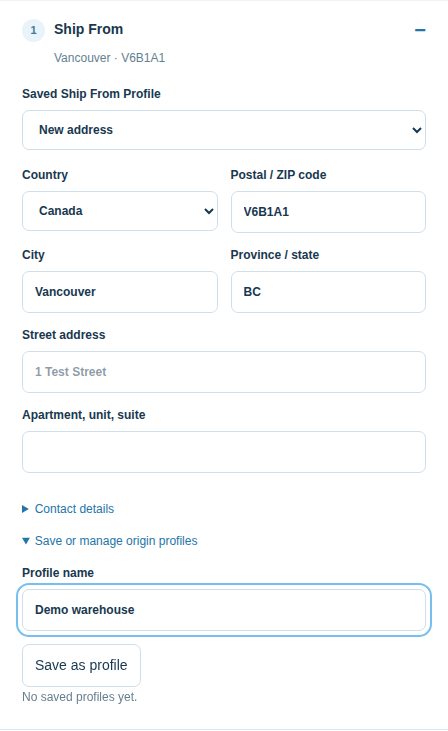
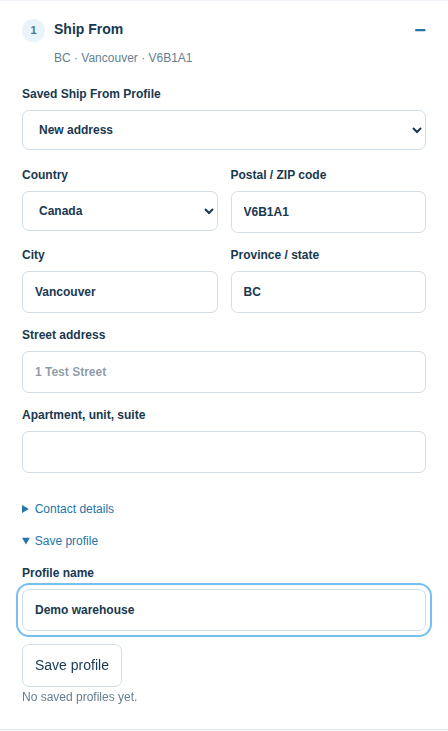
Refresh visual user guide with current workflows and sandbox walkthrough

Changed region(s): [[0.125, 0.0602, 0.4375, 0.0903], [0.1562, 0.7223, 0.4375, 0.7524], [0.1562, 0.9029, 0.2812, 0.933]]

diff --git a/docs/USER_GUIDE.md b/docs/USER_GUIDE.md
@@ -1,70 +1,186 @@
-# Shipping Rate Calculator user guide
+# Shipping Rate Calculator · Product walkthrough
 
-Use the calculator to compare Canada Post, Loomis Express and FedEx services for your shipment. Sign in, configure your carrier accounts, enter the shipment and compare the returned rates.
+A shared shipping workspace for comparing carrier services, revisiting past quotes, and verifying sandbox labels. Company connections, account permissions, and carrier environments are managed separately so daily users can focus on preparing shipments.
 
-The screenshots and animation below use a fictional account, example addresses and **mock rates**. These prices are samples, not live carrier quotes. Sandbox is for testing; production uses your separately saved production carrier settings.
+**Start here:** sign in → enter a shipment → compare services → share or revisit the comparison.
 
-## Animated rate walkthrough
+> **Demo data:** Every screenshot and animation in this guide uses an isolated Sandbox environment, fictional accounts and addresses, and synthetic rates. Prices and delivery estimates are illustrative, not carrier commitments. The label list contains a seeded demonstration record; no production waybill is created for this guide.
 
-![Eight steps showing address entry, parcel measurements, optional coverage and rate comparison](images/user-guide/rate-walkthrough.gif)
+## Watch the workflow
 
-## Sign in and choose your area
+The animation walks through address entry, package measurements, signature and declared value, rate comparison, and sharing controls.
 
-Open the app and sign in with the account provided by your administrator. Production pages use `/login`, `/rate` and `/setting`; sandbox pages use `/sandbox/login`, `/sandbox/rate` and `/sandbox/setting`. If your session expires, sign in again.
+![Animated walkthrough of the current sandbox rate calculator, using fictional shipment details and sample prices](images/user-guide/rate-walkthrough.gif)
 
-![Sandbox sign in](images/user-guide/01-sign-in.png)
+## 1. Sign in and choose an environment
 
-## Set up your carriers
+Use the account created by your administrator. There is no public registration. When signing in after a session expires, the app returns you to the protected page you requested.
 
-Open **Settings** in the area you want to use. Each carrier has its own account settings.
+- **Sandbox / UAT** is the test area. Its pages display a full-width Sandbox banner.
+- **Production** uses separately configured live carrier credentials.
+- The environment switch shows only the areas your account can access. Switching areas does not copy carrier credentials.
 
-1. Enter the carrier API URL and the credentials issued for that environment. Use your carrier account details, not the calculator login.
-2. Select the rate type for Canada Post: counter retail or commercial account, as appropriate for your account.
-3. Enable the carrier and click **Save settings** on its card.
-4. Click **Test connection** after saving. Review the result and correct any configuration errors before quoting.
+![Sandbox sign-in screen with language and theme controls](images/user-guide/01-sign-in.png)
 
-Blank secret fields keep previously saved secrets. **Clear settings** edits the form; click **Save settings** to remove the stored settings. Save each changed card before leaving the page. Sandbox credentials and production credentials are separate.
+| Destination | Production | Sandbox / UAT |
+| --- | --- | --- |
+| Home | `/home` | `/sandbox/home` |
+| Compare rates | `/rate` | `/sandbox/rate` |
+| Saved labels | `/labels` | `/sandbox/labels` |
+| Settings | `/setting` | `/sandbox/setting` |
+| API documentation | `/docs` | `/sandbox/docs` |
 
-![Three carrier settings cards with empty credentials](images/user-guide/02-carrier-settings.png)
+The upper header groups environment selection, language, theme, and sign out. Page navigation sits beneath it, with the current page underlined.
 
-## Enter addresses and save an origin
+## 2. Prepare a shipment
 
-Open **Rates**. Enter the origin and destination city, province and postal code in their respective sections. Add contact and street details when required for your shipment.
+Open **Rates**. Your company’s enabled carriers appear under **Carriers to quote**; select the carriers you want to compare. If the list is empty, ask your administrator to configure and enable a connection.
 
-For an origin you use often, expand **Save or manage origin profiles**, enter a **Profile name**, then click **Save as profile**. Select it from **Saved Ship From Profile** on later shipments. **Set default** makes a saved origin load automatically. Destination details remain independent.
+### Addresses and reusable origins
 
-![Origin address and profile controls](images/user-guide/03-origin-profile.png)
+Enter **Ship From** and **Ship To** independently. Canadian postal-code suggestions automatically populate city and province when available; you can correct either field. The collapsed address summary shows province, city, and postal code. Suggestions do not verify the complete delivery address.
 
-## Enter the package
+Use the map icon beside **Ship To** to open the current destination fields in Google Maps. It does not create a shipment or booking.
 
-Choose **Imperial · lb / in** or **Metric · kg / cm**, then enter weight, length, width and height. Switching units converts the existing measurements. Enter accurate measurements: blank or zero fields use 1 in the selected units when quoting.
+For a recurring origin, open **Save profile**, enter a profile name, and choose **Save profile**. Choose it from **Saved Ship From Profile** on future shipments. **Set default** loads that origin automatically. Origin profiles belong to your account; company carrier connections are shared.
 
-Choose the ship date. Select **Signature required** if needed and enter a **Coverage / declared value (CAD)** amount to compare covered and uncovered rates. Declared value does not guarantee insurance coverage; carrier terms apply.
+![Ship From address fields and reusable origin profile controls](images/user-guide/03-origin-profile.png)
 
-Click **Compare rates** and wait for the carrier responses.
+### Boxes, measurements, and options
 
-![Shipment addresses and package options](images/user-guide/04-shipment.png)
+| Field | Default | How it is used |
+| --- | --- | --- |
+| Boxes | 1 | Number of identical boxes; current multi-box support is limited to Purolator |
+| Weight | 1 lb | Weight of each box; Purolator receives the combined shipment weight |
+| Length, width, height | 0 in | All zero omits dimensions; otherwise enter a positive value for all three |
+| Units | Imperial | Switching to Metric converts the entered measurements |
+| Signature | Selected | Requests signature where supported by the carrier |
+| Declared value | Empty | Enter a CAD amount to compare eligible covered and uncovered rates |
 
-## Compare and share rates
+Boxes and weight share one row; dimensions occupy the next. Use accurate measurements: omitted dimensions may change the final charge. The web form substitutes 1 for blank or zero weight when quoting; the JSON API requires positive weight. Values round upward to two decimal places.
 
-Review the carrier status cards first. A failed carrier may return no services while other carriers still succeed. Correct settings or shipment details and retry as needed.
+Choose the ship date and review signature and declared value before clicking **Compare rates**. Declared value does not guarantee insurance coverage; carrier terms apply. Integrations without multi-box support return unavailable for multiple boxes.
 
-Use the sorting control to order the services and **Include tax** to change the displayed tax setting. Compare delivery estimates, prices without and with coverage, and signature availability. Expand **Quote details** for more information. **Show / hide services** controls which services appear.
+<img src="images/user-guide/04-shipment.png" alt="Shipment form with collapsed address summaries, box count, measurements, and additional options" width="450" />
 
-Click **Copy table** to paste the displayed comparison into a message or document. **Copy API result** copies an individual service's carrier response when available. Changing the shipment clears stale results; click **Compare rates** again.
+## 3. Compare services and share the result
 
-Quotes are estimates. Final charges and coverage terms may differ. The calculator compares rates; it does not purchase shipping labels. Quote results are not saved.
+Review carrier statuses before choosing a service. One carrier can fail while others return usable quotes. No synthetic price is substituted for a failed live API request.
 
-![Sample comparison with carrier statuses, coverage columns and copying controls](images/user-guide/05-rate-comparison.png)
+The comparison shows service names, delivery estimates, signature information, and eligible coverage prices. Use **Sort rates**, **Include tax**, **Quote details**, and **Show / hide services** to focus the comparison.
 
-## Use the calculator on a phone
+![Sample rate comparison with carrier statuses, service prices, delivery estimates, and sharing controls](images/user-guide/05-rate-comparison.png)
 
-Use the same steps on mobile. Package fields stack vertically; scroll down to compare the results.
+| Action | Result |
+| --- | --- |
+| **Copy table** | Copies the visible comparison for pasting into a message or document |
+| **Copy image** | Downloads the complete page as a JPG |
+| **Copy request** | Copies the submitted calculator shipment JSON for the comparison or a service’s carrier |
+| **Copy API result** | Copies the available original per-service response as JSON |
 
-![Mobile shipment and rate comparison](images/user-guide/06-mobile.png)
+Copy feedback appears in a toast. Request copies use the submitted shipment snapshot, so editing the form does not silently change the request being shared. Authentication secrets and headers are excluded.
 
-## Manage accounts as an administrator
+**Editing shipment fields keeps the existing comparison visible.** Click **Compare rates** again to obtain prices for the updated details. Labels can only be generated from shipment details matching the quoted request.
 
-Administrators can open `/admin` or `/sandbox/admin` to create accounts, change roles, reset passwords and grant Web or API access independently. Enable Web access for people using the calculator in a browser. Account changes revoke existing sessions, so affected users must sign in again.
+## 4. Reopen a saved comparison
 
-![Administrator account controls using a fictional account](images/user-guide/07-admin-accounts.png)
+Each valid rate comparison is recorded in your company’s **Rate logs**. Open the dialog from the Rates page and select a record to review its route, package, returned prices, and carrier statuses.
+
+Choose **Load shipping details** to restore the shipment and compare current rates. A past ship date moves to today; disabled carriers and personal profile access are respected. Loading a record does not promise the historical price is still available.
+
+![Rate log dialog showing a saved shipment, carrier results, and the action to reload shipping details](images/user-guide/09-rate-history.png)
+
+You can delete an individual log after confirmation. This removes the saved comparison for the company and leaves shipping labels intact. Rate logs remain with the company when an account is removed or reassigned.
+
+## 5. Generate and revisit a sandbox label
+
+Label generation is **disabled by default**. An administrator must enable it for the company and carrier environment. Current generation supports **Loomis Sandbox only**.
+
+1. Obtain a successful live Loomis sandbox quote using complete shipment details.
+2. Choose **Generate label** on the relevant service and confirm the action.
+3. Only that row shows generation progress. The PNG downloads and is saved to the company’s label history.
+4. Open **Labels**, then select the shipment row or its view link to open the detail page.
+5. Review shipment details, view the label, or download it again.
+
+The Labels table supports 10, 20, 50, or 100 rows per page. Labels appear on their dedicated page rather than below the rate table.
+
+![Generated labels list with a fictional seeded shipment and pagination controls](images/user-guide/10-generated-labels.png)
+
+The record above demonstrates label history navigation only. Its image is a fixture, not a printable carrier waybill. The guide capture blocks waybill creation and production API calls.
+
+## 6. Manage the company workspace
+
+Administrators use **Settings → Company groups** and **Settings → Users and access**. Ordinary users see personal settings and their company membership; they cannot edit carrier credentials or create accounts.
+
+| Setting | Scope |
+| --- | --- |
+| Carrier connections | Shared by the company, separately for each environment |
+| Generation permission | Company and environment; disabled initially |
+| Labels and rate logs | Shared company history |
+| Origin profiles | Personal to the user |
+| Language and theme | Browser preference, shared across the two carrier areas |
+
+<details>
+<summary><strong>Company groups and carrier setup</strong></summary>
+
+Select or create a company, then use its tabs to manage members, connections, and permissions. A user belongs to one company; changing membership revokes that user’s sessions. Existing labels, logs, and credentials stay with the original company.
+
+![Company directory and selected company overview](images/user-guide/08-company-workspace.png)
+
+In **API connections**:
+
+1. Enter the credentials issued for the selected carrier environment.
+2. For Canada Post, choose the appropriate counter/retail or commercial account rate type.
+3. Enable the carrier and choose **Save settings**.
+4. Use **Test connection** to inspect status, response time, and errors. This check requests rates; it does not purchase a label.
+
+Blank secret fields preserve stored secrets. **Clear settings** changes the draft; save to persist it. Unsaved changes trigger a leave-page prompt. Disabled but configured carriers can still be tested.
+
+![Administrator carrier connection cards with synthetic saved credentials](images/user-guide/02-carrier-settings.png)
+
+Purolator fields follow the issued credential order: Client ID, Client Secret, Key, Sender Account, Receiver Account, and Freight Account. Production requires `x-api-key`; UAT can omit it if none was issued, subject to carrier acceptance. Current Courier estimates bill the sender; receiver billing and freight quoting are not implemented.
+
+![Purolator sandbox credential fields and connection actions](images/user-guide/13-purolator-settings.png)
+
+</details>
+
+<details>
+<summary><strong>Users, roles, and access</strong></summary>
+
+Create accounts, assign a company, set a role, reset passwords, and independently grant Web/API and Production/Sandbox access. Enable Web access for browser users. Account access changes revoke existing sessions; affected users sign in again. The last web-enabled administrator is protected.
+
+![User management with fictional accounts, company assignment, and access controls](images/user-guide/07-admin-accounts.png)
+
+</details>
+
+## 7. Use your preferred language, theme, and device
+
+Choose **EN**, **FR**, **繁體中文**, or **简体中文** from the header. Switching language preserves shipment inputs and the current comparison. Carrier responses, service names, addresses, and copied API JSON retain their original values. Date/time region is configured separately in **My settings**.
+
+Theme defaults to the operating system preference. The icon button cycles **System → Dark → Light → System**. Preferences persist in the browser and synchronize across tabs.
+
+<details>
+<summary><strong>Preview dark mode and Traditional Chinese</strong></summary>
+
+![Rates page in dark mode with grouped navigation controls](images/user-guide/11-dark-mode.png)
+
+![Traditional Chinese interface in dark mode](images/user-guide/12-traditional-chinese.png)
+
+</details>
+
+On a phone, workspace controls stay grouped, sign out uses an icon, and page navigation can scroll horizontally. Address sections can collapse; the comparison table can scroll to show additional columns.
+
+<img src="images/user-guide/06-mobile.png" alt="Mobile sandbox calculator showing responsive navigation and shipment sections" width="390" />
+
+## If something needs attention
+
+| Situation | Next step |
+| --- | --- |
+| No carrier choices | Ask an administrator to enable company connections in the current environment |
+| A carrier fails | Review its status and connection test; correct credentials or shipment fields and retry |
+| Multi-box rates unavailable | Use a supported integration or quote one box; unsupported carriers do not quote a single-box substitute |
+| Generate label is missing | Check company permission, Sandbox mode, live Loomis success, and unchanged shipment details |
+| A quote looks out of date | Compare again; historical and displayed rates are estimates |
+| Session expired | Sign in again; account changes can also revoke sessions |
+
+For implementation and setup details, see the [README](../README.md), [API reference](API.md), [carrier mapping](CARRIER_MAPPING.md), and [testing guide](TESTING.md).
